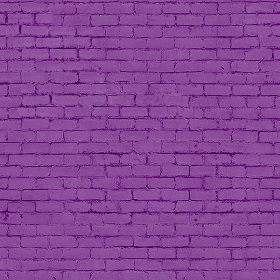
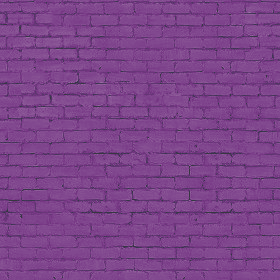
about section update + darkened background

diff --git a/about.html b/about.html
@@ -33,12 +33,14 @@
 		<!-- Main page content -->
 		<main class="purple">
 			<section>
-				<h2>WHO?</h2>
+				<h2>BIO</h2>
 				<hr>
 
-				<p>hi, i'm Backslash (like the keyboard key)! a korean, cat-loving, digital artist who loves to do literally anything but what she's supposed to.</p>
-				<p>i love spending my free time creating things. but, when i'm not making things i tend to hang out with my friends and play video games.</p>
-				<p>i'm also transgender and super gay lol. :3</p>
+				<p>hello! i'm backslash (like the keyboard key).</p>
+				<p>i'm a trans korean digital artist and i love doing literally anything and everything i'm not supposed to.</p>
+				<p>i love what i do. but, whenever i'm not messing around and creating things, i'm most likely to kick my feet up, play video games, and hang out with my friends.</p>
+				<p>please note that everything i do is purely for fun. do not expect this website or anything else i create to be even remotely professional in the slightest.</p>
+				<p>-- backslash</p>
 
 				<br>
 			</section>
@@ -51,10 +53,9 @@
 				<p>here's a small list of the main stuff.</p>
 				<ul>
 					<li>digital art</li>
-					<li>graffiti</li>
+					<li>graffiti art and writing</li>
 					<li>music composition</li>
-					<li>game development</li>
-					<li>web devolopment i guess lol</li>
+					<li>programming</li>
 				</ul>
 				
 				<br>
